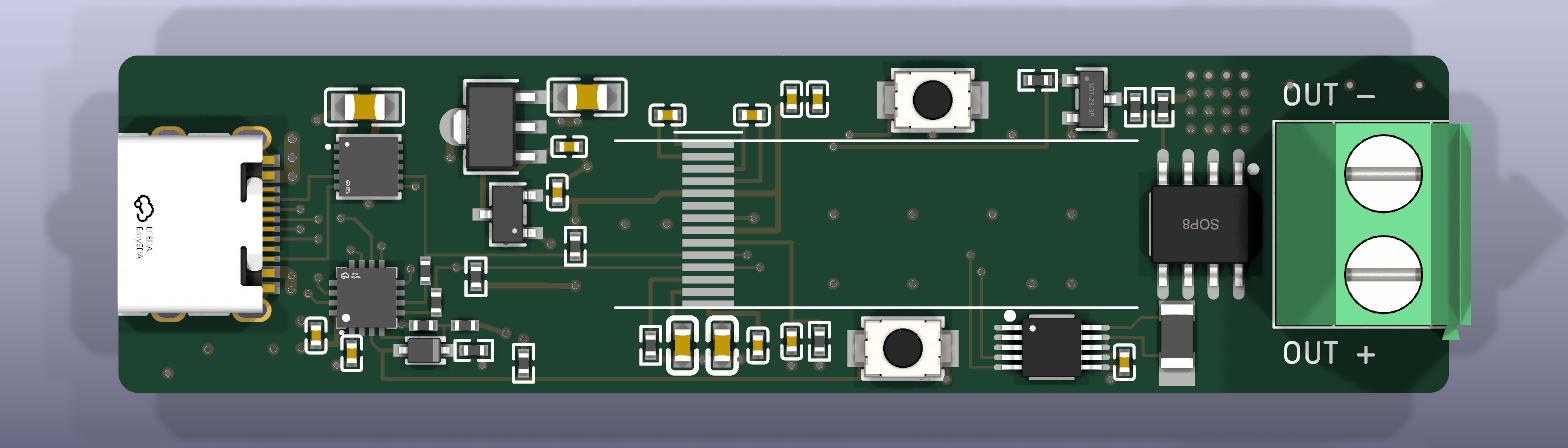
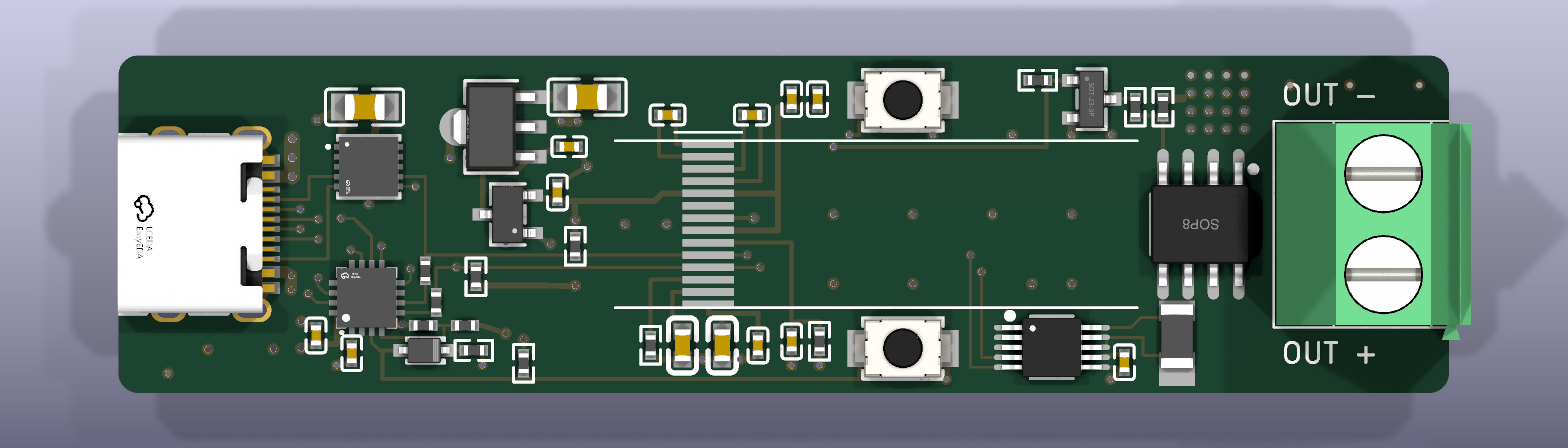
Align SW1 with SW2 (both at x 39.5) so the case plungers line up
SW2 was moved 1.5 mm left for the INA226's I2C lanes and SW1 was not moved with it.

Changed region(s): [[0.5312, 0.125, 0.6562, 0.3125]]

diff --git a/tools/route_plan.py b/tools/route_plan.py
@@ -172,7 +172,7 @@ def build(r):
     r.via((111.7, 109.8), BTN_ON, *VS)
     r.track(B, THIN, (111.7, 109.8), (111.7, 104.0), (136.8, 104.0), net=BTN_ON)
     r.via((136.8, 104.0), BTN_ON, *VS)
-    r.track(T, SIG, (136.8, 104.0), (138.815, 104.0), ('SW1', '1'), net=BTN_ON)
+    r.track(T, SIG, (136.8, 104.0), (137.315, 104.0), ('SW1', '1'), net=BTN_ON)
     r.track(T, THIN, ('U4', '8'), (114.55, 111.45), (114.7, 111.3), (114.7, 110.75), net=SW_EN)
     r.via((114.7, 110.75), SW_EN, *VS)
     r.track(B, THIN, (114.7, 110.75), (114.3, 110.35), (114.3, 104.6), (136.0, 104.6), net=SW_EN)
